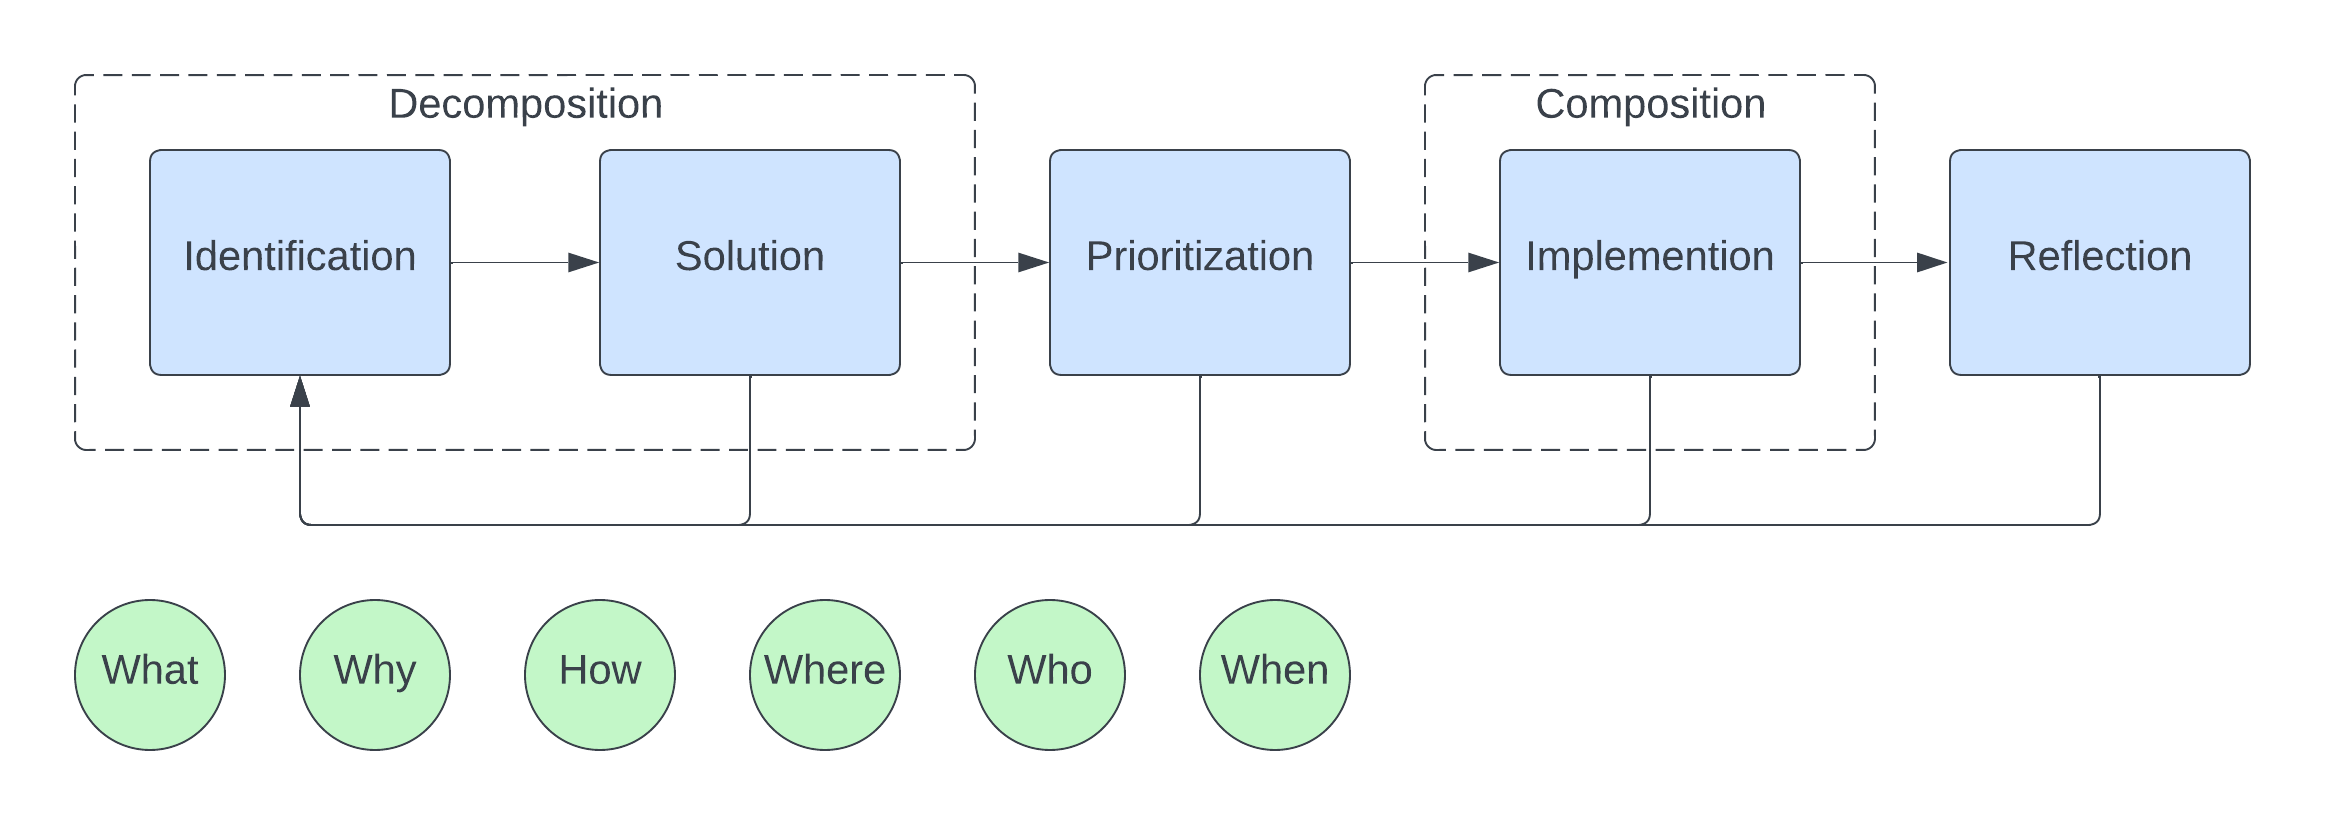
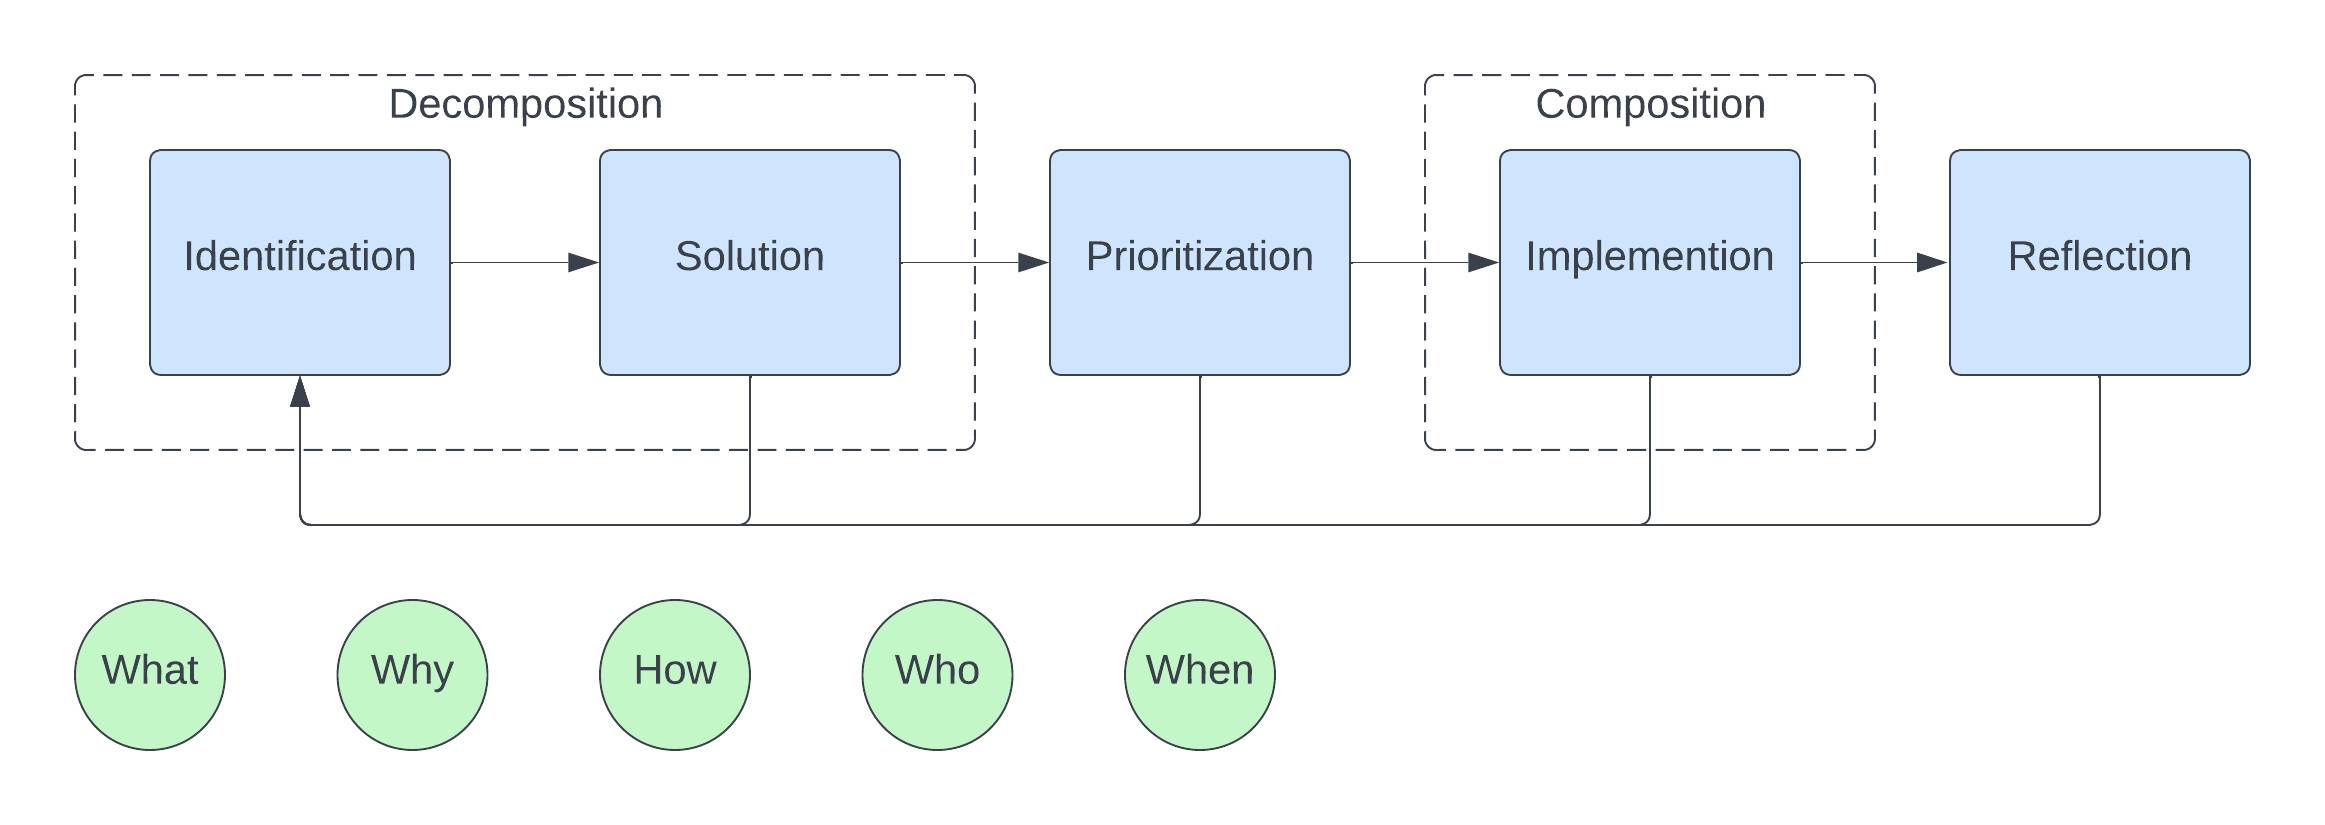
wip

Changed region(s): [[0.1239, 0.7273, 0.5884, 0.9091]]

diff --git a/src/sdlc/index.md b/src/sdlc/index.md
@@ -27,7 +27,7 @@ Problem - Unwelcome/harmful situation
 Risk - Possibility of some loss
 
 Opportunity/Problem Solution (OPS?) SDLC
-Opportunity/ProblemRisk (OPR?) SDLC
+Opportunity/Problem/Risk (OPR?) SDLC
 
 <img alt="SDLC" src="./img/overview.png" style="max-height:300px" />
 
@@ -42,7 +42,7 @@ There are two additional areas marked as "decomposition" and "composition". As t
 Processes and controls within the SDLC are mapped to Stage/Type combinations (todo more here), meaning that a process or control takes effect when a particular type of item hits a certain stage in the SDLC.
 
 ### What, Why, How, Where, Who, When
-Another way to look the SDLC is to view it through the lense of answering who, what, when, where why, and how.
+Another way to look the SDLC is to view it through the lense of answering what, why, who, how, and when.
 
 <img alt="SDLC What" src="./img/overview-what.png" style="max-height:300px" />
 
@@ -52,7 +52,12 @@ In essence, each stage of the SDLC seeks to answer these questions prior to impl
 
 <img alt="Identification" src="./img/identification.png" style="max-height:300px" />
 
-* Articulation (of an item)
+* Classification (of an item)
+    * What archetype of problem/opportunity/risk is it
+    * Deliverable/Artifact is the archetype
+        * Item Classification
+* Investigation (of an item)
+    * Requirements driven by Archetype
     * Investigate the problem/opportunity/risk enough to fully articulate it
     * Understand the item enough to be able to clearly articulate the item
         * Market opportunities may need research or review
@@ -64,13 +69,15 @@ In essence, each stage of the SDLC seeks to answer these questions prior to impl
         * Affected Products/Systems/Teams
         * Urgency/Priority
     * Deliverable/Artifact is the investigation results (see Need)
-        * Item Articulation/Classification Document/Statement
+        * Item Articulation Document/Statement
 * Justification (of an item)
+    * Requirements driven by Archetype
     * Articulate the reason why we should try and solution this item now
     * Need (Why the item should be solved by us)
     * Deliverable/Artifact is the justification
-        * Iten Justification (why should we tackle this instead of that)
-* Decision (of an item)
+        * Item Justification (why should we tackle this instead of that)
+* Decision (on the item)
+    * Requirements driven by Archetype
     * Go/No Go to start solutioning
     * Concept of standing decisions
     * Who decides needs to be articulated
@@ -79,7 +86,10 @@ In essence, each stage of the SDLC seeks to answer these questions prior to impl
 
 # Solution
 
-* Preparation (of a plan)
+<img alt="Solution" src="./img/solution.png" style="max-height:300px" />
+
+* Articulation (of a plan)
+    * Requirements driven by Archetype
     * Product/System Requirements (Functional/Non-Functional)
     * Design/Plan
     * How we solve the problem
@@ -90,14 +100,60 @@ In essence, each stage of the SDLC seeks to answer these questions prior to impl
     * Deliverable/Artifact is the plan
         * Solution Articulation Document/Statement
         * Solution Justification (why should we do this instead of that)?
-* Dissemination (of a plan)?
-* Evaluation (of a plan)
+* Decision (on the plan)
+    * Requirements driven by Archetype
     * Review of the plan/design/approach
         * Does it fully address the item
         * Does it meet company/team solution requirements
         * Is it "complete" enough?
-    * Deliverable/Artifact is the Set of approvals
+        * Should we move forward
+    * Deliverable/Artifact is the recorded decision
+        * Plan Decision
 
+# Prioritization
+
+<img alt="Prioritization" src="./img/prioritization.png" style="max-height:300px" />
+
+* Evaluation (of the timeline)
+    * Requirements driven by Archetype
+    * Prioritization
+    * Scheduling
+    * Roadmapping
+    * Sprint Planning
+    * Deliverable/Artifact is the timeline
+* Decision (on the timeline)
+    * Requirements driven by Archetype
+    * Deliverable/Artifact is the recorded decision
+        * Timeline Decision
+
+# Implementation
+
+<img alt="Implementation" src="./img/implementation.png" style="max-height:300px" />
+
+* Execution (of the plan)
+    * Requirements driven by Archetype
+    * Deliverable/Artifact is the completed plan
+        * Plan Output (Working Software, updated docs, etc...)
+* Verification (of the item & plan)
+    * Requirements driven by Archetype
+    * Deliverable/Artifact is the recorded verification
+        * Plan Verification
+ 
+# Reflection
+
+<img alt="Reflection" src="./img/reflection.png" style="max-height:300px" />
+
+* Examination (of the item & plan)
+    * Requirements driven by Archetype
+    * actionable changes and other problems / opportunities
+    * Deliverable/Artifact is Examination Results?
+        * Results?
+* Action (on the item & plan)
+    * Requirements driven by Archetype
+    * Deliverable/Artifact is Action Items
+        * Action Items
+
+# Decomposition / Composition
 
 ## Decomposition
 Rather than try to fully develop a monolothic solution prior to prioritization, it is better to decompose the problem or opportunity into smaller pieces. These smaller pieces can then be run through the SDLC and worked on until the are recomposed into an implemented solution that addresses the original opportunity/problem.
@@ -110,33 +166,15 @@ Also note that a solution does not have to have all of its pieces fully solution
 | <img alt="Decomposition Items" src="./img/decomposition-items.png" style="max-height:300px" /> | <img alt="Decomposition Breakdown" src="./img/decomposition-breakdown.png" style="max-height:300px" /> |
 | --- | --- |
 
-# Prioritization
-
-* Evaluation (of the timeline?)
-    * Prioritization
-    * Scheduling
-* Communication (of the timeline?)
-    * Coordination
-        * Includes communication
-        * Inter and Intra team
-* Decision
-
-# Implementation
-
-* Execution
-* Completion
-
-* Doing
-* Done
-    * Working software in use by customers 
-
 ## Composition
 
-# Reflection
+TODO
 
-* Reflection
-    * actionable changes and other problems / opportunities
+# Archetypes
 
+* What the items are
+* Requirements at each stage of the SDLC
+* Responsibilities at each stage of the SDLC
 
 # Definitions
 * Composition - TODO
